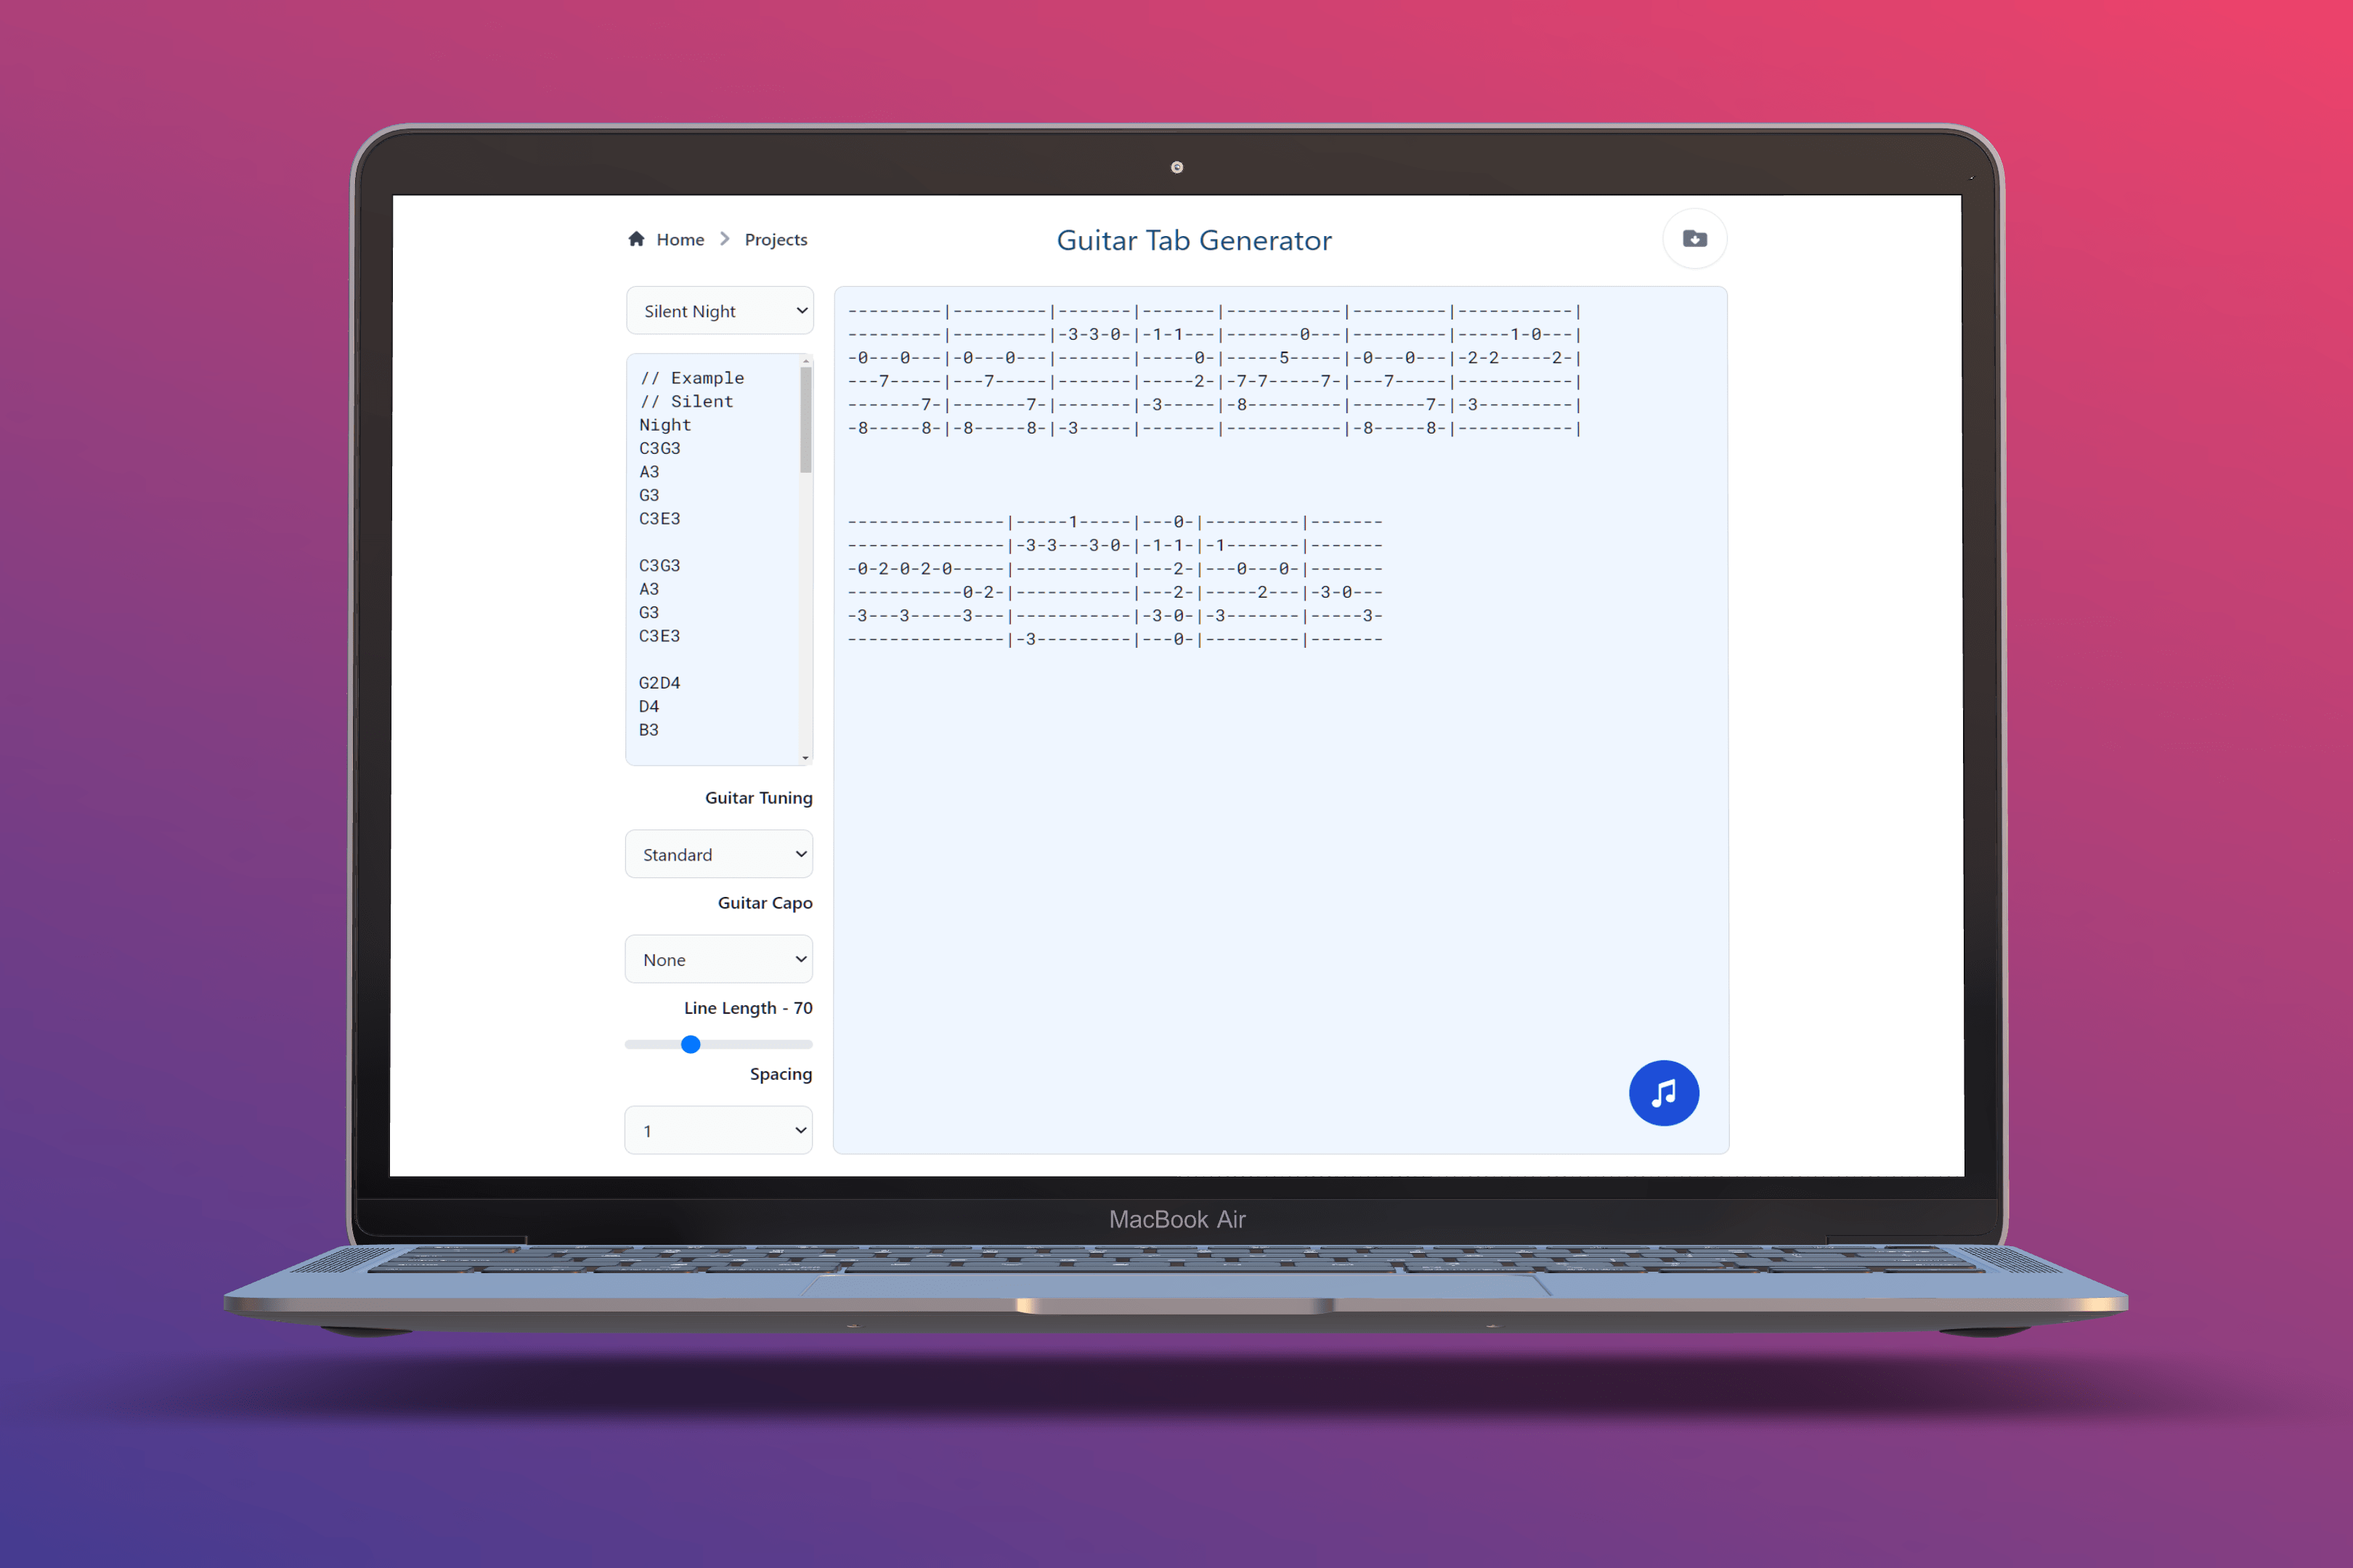
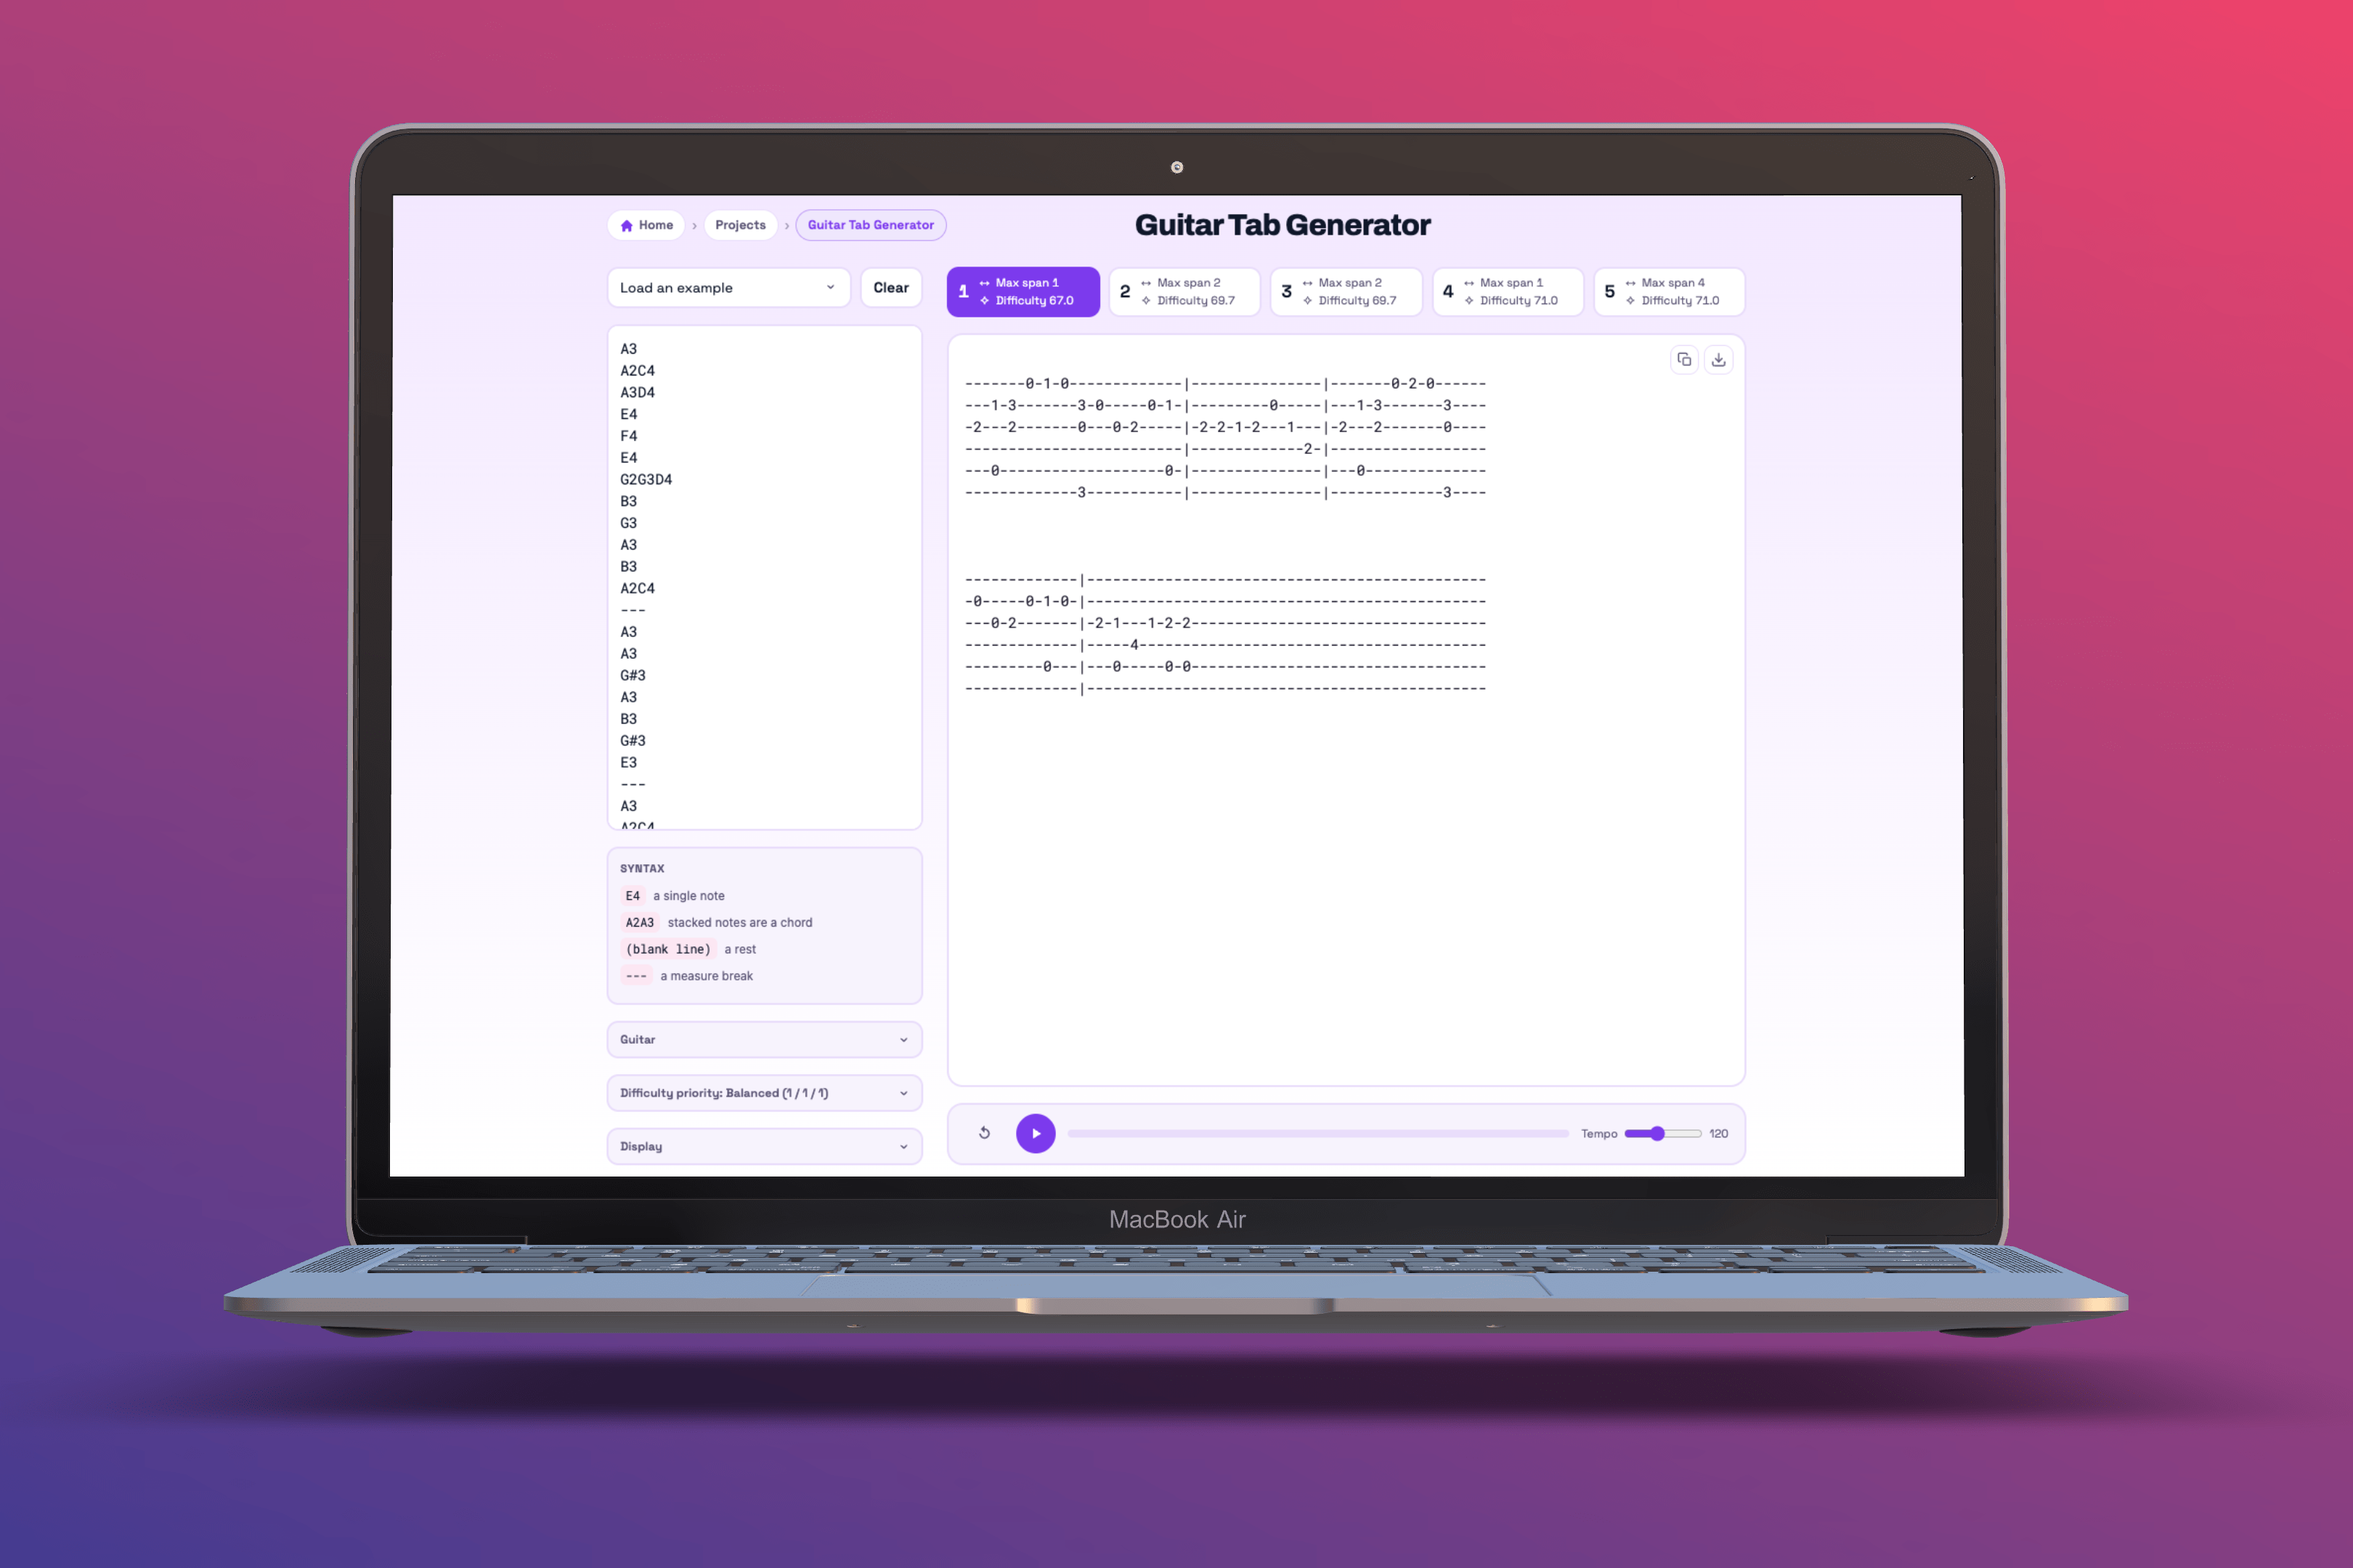
docs: refresh the demo mockup and record where it is generated
Claude-Session: https://claude.ai/code/session_012wAVPfRdqdpMGqzqRwKgqf

diff --git a/docs/demo-mockup-source.md b/docs/demo-mockup-source.md
@@ -1,0 +1,5 @@
+# Where demo_mockup.png comes from
+
+`examples/demo_mockup.png`, the demo image in the README, is generated in the website repo, not here. It composites a capture of the live demo page into a MacBook render.
+
+Regenerate it with the recipe at `noahbaculi.github.io/docs/screenshot-recipe.md`. That repo runs the demo page, holds the mockup art, and owns the responsive webp variants the site serves, so the recipe lives there and the last step copies the result back into `examples/`.
